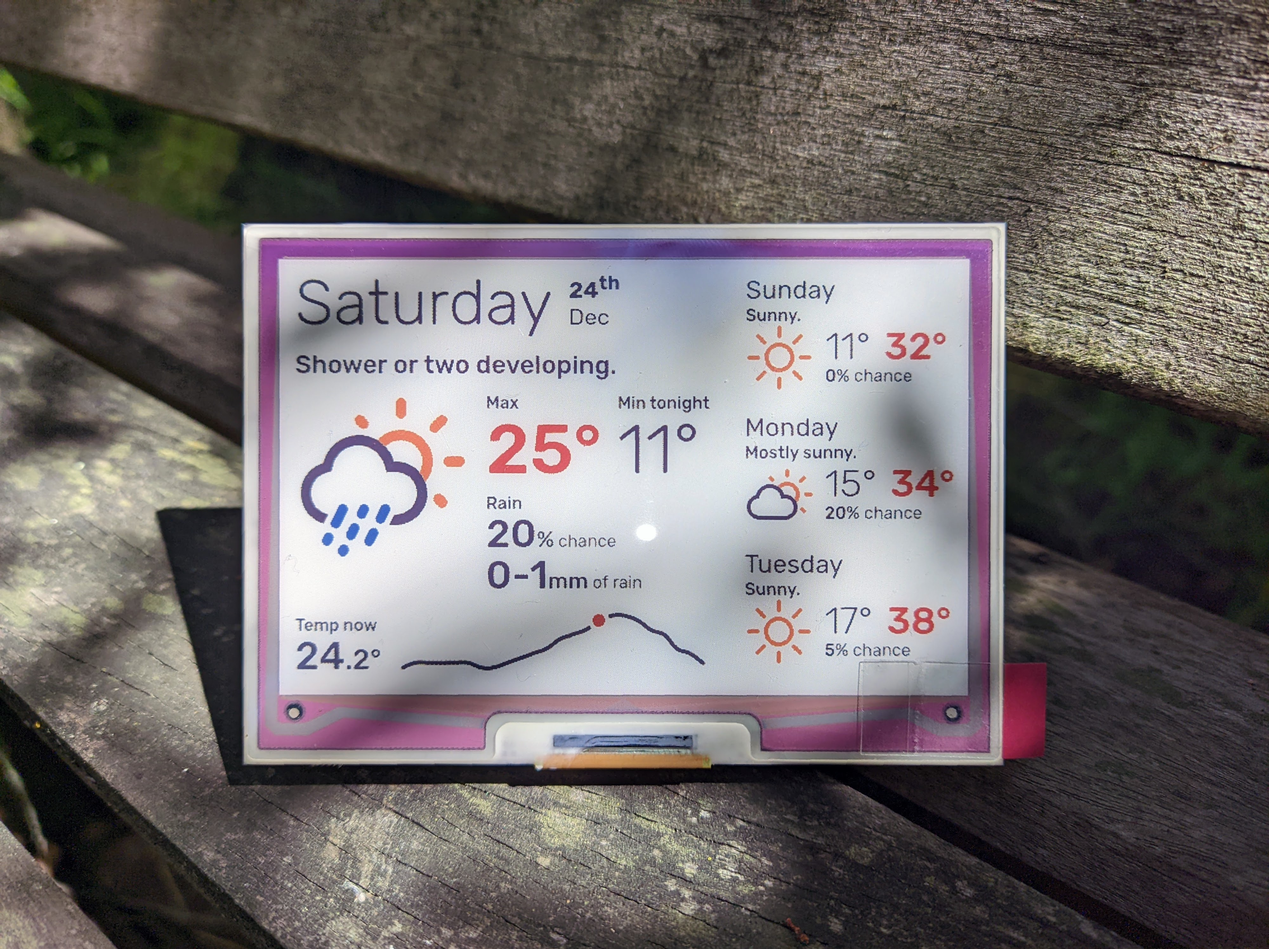
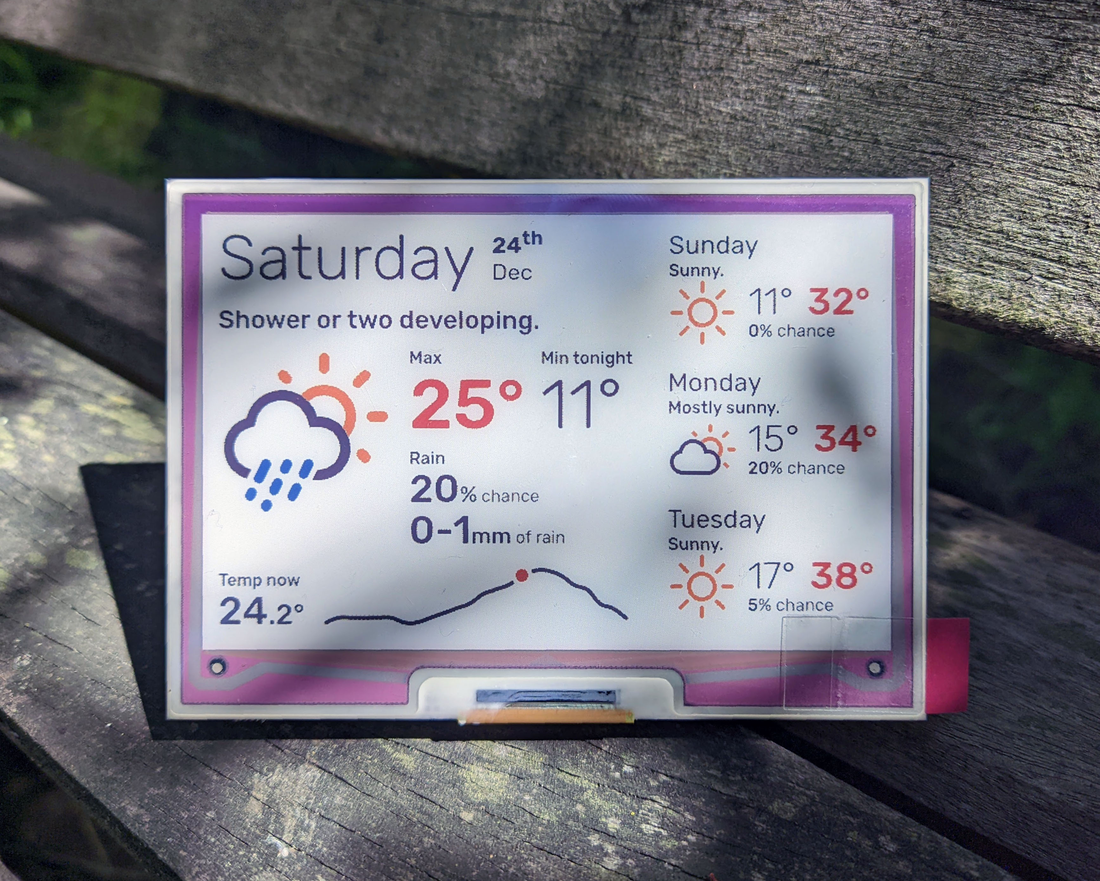
Many minor fixes and improvements

diff --git a/static/script.js b/static/script.js
@@ -1,4 +1,4 @@
-function draw_temp_graph(temps) {
+function draw_graph(temps) {
   const ctx = document.getElementById("today-graph-canvas");
 
   // Test data
@@ -7,19 +7,27 @@ function draw_temp_graph(temps) {
   //   23, 21, 19, 18, 17, 16,
   // ];
 
-  console.log(temps);
-
+  // Format list of numbers into {x, y} format
   var data = [];
-  for (let i = 0; i < temps.length; i++) {
+  for (let i = 0; i <= temps.length; i++) {
     data.push({ x: i, y: temps[i] });
   }
 
+  // Define a point at the current hour
   var now_hour = new Date().getHours();
   var now_point = {
     x: now_hour,
     y: temps[now_hour],
   };
 
+  now_point_colour =
+    "rgb(" +
+    255 *
+      ((temps[now_hour] - Math.min(...temps)) /
+        (Math.max(...temps) - Math.min(...temps))) +
+    ", 0, 0)";
+
+  // Draw the graph!
   new Chart(ctx, {
     data: {
       datasets: [
@@ -37,7 +45,7 @@ function draw_temp_graph(temps) {
         {
           type: "scatter",
           data: [now_point],
-          backgroundColor: "rgb(255, 0, 0)",
+          backgroundColor: now_point_colour,
           borderWidth: 4,
           borderColor: "white",
           radius: 8,
@@ -51,10 +59,12 @@ function draw_temp_graph(temps) {
         x: {
           type: "linear",
           display: false,
+          min: 0,
+          max: temps.length,
         },
         y: {
           display: false,
-          // min: Math.min(...temps) - 2,
+          min: Math.min(...temps) - 2,
           max: Math.max(...temps) + 2,
         },
       },
@@ -70,8 +80,10 @@ function draw_temp_graph(temps) {
   });
 }
 
-document.addEventListener("DOMContentLoaded", (event) => {
+document.addEventListener("DOMContentLoaded", () => {
   fetch("/todays-hourly-temps")
     .then((response) => response.json())
-    .then((data) => draw_temp_graph(data));
+    .then((data) => {
+      draw_graph(data);
+    });
 });

diff --git a/templates/index.html b/templates/index.html
@@ -3,10 +3,13 @@
 
 <head>
   <meta charset="UTF-8" />
+
   <title>ePaper Weather Display</title>
+
   <link rel="stylesheet" href="static/style.css" />
-  <script src="https://cdn.jsdelivr.net/npm/chart.js@4.1.1/dist/chart.umd.min.js"></script>
+
   <script src="static/script.js"></script>
+  <script src="https://cdn.jsdelivr.net/npm/chart.js@4.1.1/dist/chart.umd.min.js"></script>
 </head>
 
 <body>
@@ -22,7 +25,7 @@
 
   <div id="today-shorttext">{{ data.daily[0].short_text }}</div>
 
-  <img class="icon" id="today-icon" src="static/icons/{{ data.daily[0].icon_descriptor }}.svg" alt="??">
+  <img class="icon" id="today-icon" src="static/icons/{{ data.daily[0].icon_descriptor }}.svg">
 
   <div id="today-temps">
     {% if data.daily[0].temp_min %}
@@ -90,7 +93,7 @@
     <div>
       <div class="forecast-heading">{{ weekdays[(today.weekday() + day ) % 7] }}</div>
       <div class="forecast-shorttext">{{ data.daily[day].short_text }}</div>
-      <img class="forecast-icon" src="static/icons/{{ data.daily[day].icon_descriptor }}.svg" alt="??">
+      <img class="forecast-icon" src="static/icons/{{ data.daily[day].icon_descriptor }}.svg">
       <div class="forecast-temps">
         <span class="forecast-temps-numeral">{{ data.daily[day].temp_min }}&deg;</span>
         <span class="forecast-temps-numeral temps-max">{{ data.daily[day].temp_max }}&deg;</span>

diff --git a/static/style.css b/static/style.css
@@ -67,9 +67,6 @@ body {
   left: 10px;
   width: 160px;
   height: 160px;
-  font-size: 60pt;
-  line-height: 160px;
-  text-align: center;
 }
 
 /* TODAY TEMPS */
@@ -89,7 +86,7 @@ body {
 .today-temps-heading {
   font-size: 12pt;
   font-weight: 500;
-  margin-bottom: -3px;
+  margin-bottom: -5px;
 }
 
 .today-temps-numeral {
@@ -185,9 +182,6 @@ body {
   top: 45px;
   width: 64px;
   height: 64px;
-  font-size: 24pt;
-  text-align: center;
-  line-height: 64px;
 }
 
 .forecast-temps {

diff --git a/templates/error.html b/templates/error.html
@@ -14,18 +14,16 @@
             font-family: Rubik;
         }
 
-        p,
-        pre {
+        * {
             font-size: larger;
         }
     </style>
 </head>
 
 <body>
-    <h1>Sorry, cannot show the weather because there was an error</h1>
-    <p>It will be fixed shortly, I promise :)</p>
-    <p>The error was:</p>
-    <pre><{{ error }}</pre>
+    <h1>Sorry, the weather is broken :(</h1>
+    <p>It will be fixed shortly</p>
+    <pre>{{ error }}</pre>
 </body>
 
 </html>

diff --git a/app.py b/app.py
@@ -14,7 +14,7 @@ from io import BytesIO
 # xml = etree.parse('ftp://ftp.bom.gov.au/anon/gen/fwo/IDV10751.xml')
 
 # Paths and URLs
-hourly_temps_log_path = "../weather-data-logs/hourly-temps.json"
+hourly_temps_log_path = "../data/hourly-temp-log.json"
 
 API_URLs = {
     'observations': 'https://api.weather.bom.gov.au/v1/locations/r1r0z4/observations',
@@ -29,43 +29,38 @@ def load_API_data(URL):
             return json.load(JSON_data)['data']
     except urllib.error.HTTPError as error:
         logging.error(f'Failed to load data from URL: {URL}', error)
+        raise
+    except urllib.error.URLError as error:
+        logging.error(f'Failed to load data from URL: {URL}', error)
+        raise
 
 # Flask app
 app = Flask(__name__)
+data = {}
+
+# Setup logging if not in debug mode
 if not app.debug:
     logging.basicConfig(filename='debug.log', format='[%(asctime)s] [%(levelname)s] %(message)s', level=logging.DEBUG)
 
+# Serve weather display page
 @app.route('/')
 def index():
-    # Load data
-    data = {}
-    data['obs'] = load_API_data(API_URLs['observations'])
-    data['daily'] = load_API_data(API_URLs['forecast-daily'])
-
-    # Some utility variables
-    today = date.today()
-    weekdays = ['Monday', 'Tuesday', 'Wednesday', 'Thursday', 'Friday', 'Saturday', 'Sunday']
-
-    # Render and load HTML template!
     try:
-        return render_template('index.html', data=data, today=today, weekdays=weekdays)
+        data['obs'] = load_API_data(API_URLs['observations'])
+        data['daily'] = load_API_data(API_URLs['forecast-daily'])
+        data['hourly'] = load_API_data(API_URLs['forecast-hourly'])
     except Exception as error:
-        logging.error(error)
-        return render_template('error.html', error=error)
-
-@app.route('/todays-hourly-temps')
-def todays_hourly_temps():
+        return render_template('error.html', error=f'Error fetching data\n{error}')
+   
     # Maintain a JSON log file of the hourly forecast temperatures
     hourly_temps = {}
     if os.path.exists(hourly_temps_log_path):
         with open(hourly_temps_log_path, 'r') as hourly_temps_log:
-            try:
-                hourly_temps = json.load(hourly_temps_log)
-            except:
-                pass
+            try: hourly_temps = json.load(hourly_temps_log)
+            except: pass
         os.remove(hourly_temps_log_path)
 
-    for hour in load_API_data(API_URLs['forecast-hourly']):
+    for hour in data['hourly']:
         hour_time = isoparse(hour['time']).replace(tzinfo=timezone.utc).astimezone(tz=None)
         iso_date = hour_time.date().isoformat()
         if iso_date not in hourly_temps.keys():
@@ -76,13 +71,27 @@ def todays_hourly_temps():
         json.dump(hourly_temps, hourly_temps_log)
 
     # Compile an array of todays' hourly temperatures
-    todays_hourly_temps = []
+    data['todays-hourly-temps'] = []
     for hour in range(24):
         hour = str(hour)
         if hour in hourly_temps[date.today().isoformat()].keys():
-            todays_hourly_temps.append(hourly_temps[date.today().isoformat()][hour])
+            data['todays-hourly-temps'].append(hourly_temps[date.today().isoformat()][hour])
         # else:
         #     todays_hourly_temps.append(0)
 
-    return send_file(BytesIO(json.dumps(todays_hourly_temps).encode()), 'application/json')
+    # Some utility variables
+    today = date.today()
+    weekdays = ['Monday', 'Tuesday', 'Wednesday', 'Thursday', 'Friday', 'Saturday', 'Sunday']
+
+    # Render and load HTML template!
+    try:
+        return render_template('index.html', data=data, today=today, weekdays=weekdays)
+    except Exception as error:
+        logging.error(error)
+        return render_template('error.html', error=f'Error rendering html template\n{error}')
+
+# Serve hourly temperature data
+@app.route('/todays-hourly-temps')
+def todays_hourly_temps():
+    return send_file(BytesIO(json.dumps(data['todays-hourly-temps']).encode()), 'application/json')
 

diff --git a/start-display.py b/start-display.py
@@ -5,32 +5,38 @@ from inky.auto import auto
 import sys
 from subprocess import Popen, TimeoutExpired
 import shlex
+import shutil
+import os.path
 import time
 import logging
 
 logging.basicConfig(filename='debug.log', format='[%(asctime)s] [%(levelname)s] %(message)s', level=logging.DEBUG)
 logfile = open('debug.log', 'a')
 
+def log(message):
+    logging.info(message)
+    print(message)
+
 start_time = time.time()
 def time_elapsed():
     return f'{round(time.time() - start_time, 2)}s'
 
 print('\n\n\n', file=logfile)
-logging.info('Starting gunicorn server')
+log('Starting gunicorn server')
 
 gunicorn_process = Popen(shlex.split(f'{sys.executable} -m gunicorn --access-logfile=- \'app:app\''),
     stdout=logfile, stderr=logfile)
 
 time.sleep(2)
 
-logging.info('Rendering screenshot with Chromium')
+log('Rendering screenshot with Chromium')
 
 chromium_command = 'chromium-browser --headless --window-size=640,400 --screenshot="./screenshot.png" "http://127.0.0.1:8000"'
 chromium_process = Popen(shlex.split(chromium_command), stdout=logfile, stderr=logfile)
 
 try:
     chromium_process.communicate(timeout=10)
-    logging.info('Chromium done, stopping gunicorn server')
+    log('Chromium done, stopping gunicorn server')
 except TimeoutExpired:
     logging.warn('Chromium did not quit, killing and stopping gunicorn server')
     chromium_process.kill()
@@ -44,30 +50,20 @@ except TimeoutExpired:
     gunicorn_process.kill()
 
 
-logging.info(f'Finished rendering image in {time_elapsed()}, writing to display! ✍')
+log(f'Finished rendering image in {time_elapsed()}, writing to display! ✍')
 
 inky = auto(ask_user=True, verbose=True)
 image = Image.open('./screenshot.png')
-resizedimage = image.resize(inky.resolution)
-inky.set_image(resizedimage, saturation=0)
+resized_image = image.resize(inky.resolution)
+inky.set_image(resized_image, saturation=0)
 inky.show()
 
+# OPTIONAL
+log('Saving a copy of the image')
+file_index = 1
+path = f'../data/screenshots/'
+while os.path.exists(f'{path}screenshot{file_index}.png'): file_index += 1
+shutil.copyfile('./screenshot.png', f'{path}screenshot{file_index}.png')
+
 logfile.close()
-logging.info(f'Done in {time_elapsed()}, BYE!')
-
-# Ping method
-# ping = tcping.Ping('127.0.0.1', 8000)
-# for tries in range(5):
-#     try:
-#         ping.ping(1)
-#     except ConnectionRefusedError as error:
-#         if tries == 4:
-#             raise error
-#         print('Ping failed, retrying')
-#         time.sleep(0.5)
-#         pass
-#     else:
-#         print('Ping connection sucessful')
-#         break
-
-# python3 -m gunicorn -w 4 --access-logfile=- 'app:app'
+log(f'Done in {time_elapsed()}, BYE!')
